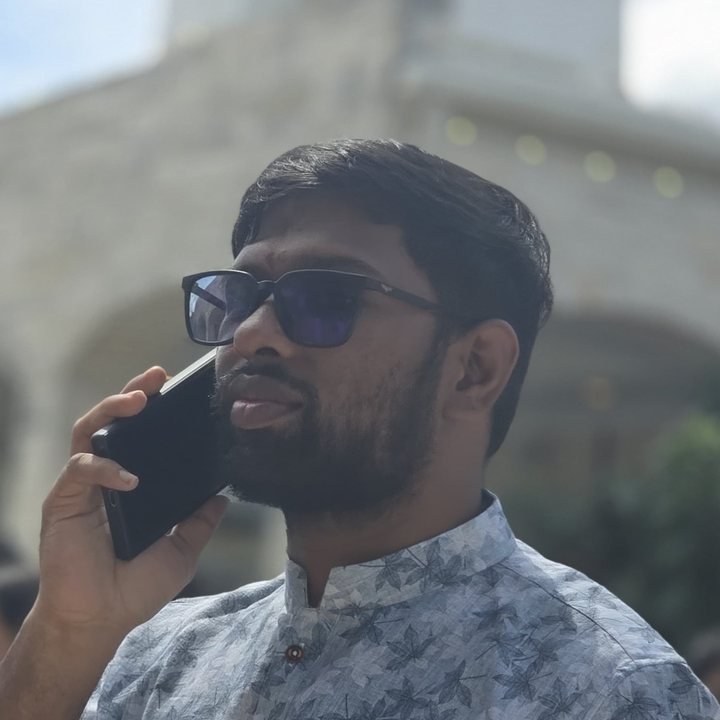
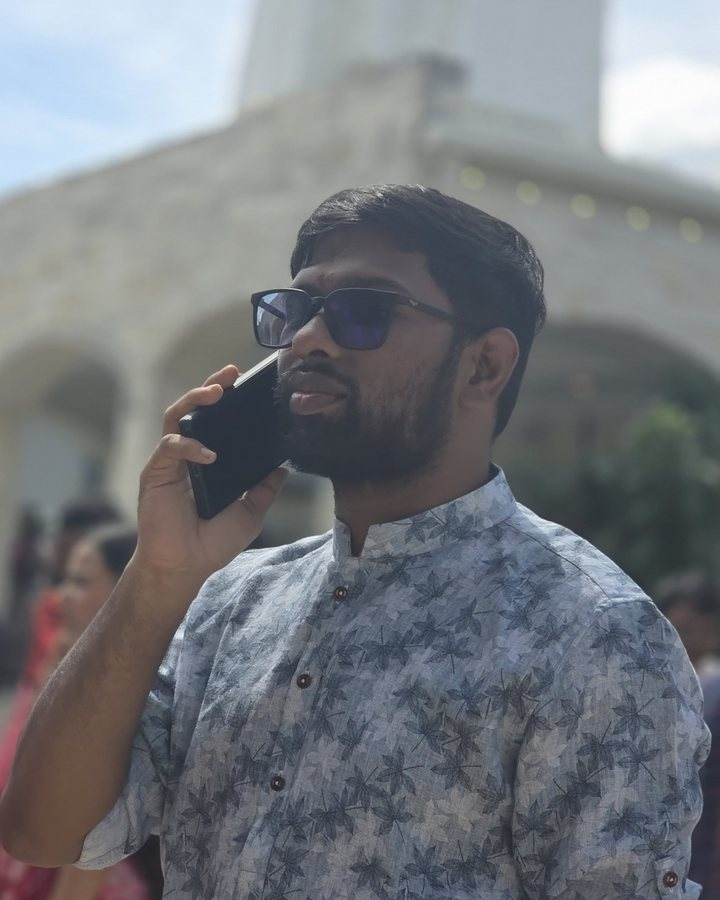
Show more of the portrait in a 4:5 frame
Claude-Session: https://claude.ai/code/session_01UydZ9j2jUNUFJcGSWKtVLU

diff --git a/assets/style.css b/assets/style.css
@@ -97,8 +97,8 @@ p { margin: 0; }
 .section-head p { color: var(--muted); max-width: 64ch; }
 
 /* ---------- hero ---------- */
-.hero { display: grid; grid-template-columns: 220px minmax(0, 1fr); gap: 40px; align-items: center; }
-.portrait { width: 220px; height: auto; aspect-ratio: 1; border-radius: 16px; object-fit: cover; background: var(--surface); box-shadow: 0 1px 0 var(--line), 0 12px 30px -18px var(--shadow); }
+.hero { display: grid; grid-template-columns: 240px minmax(0, 1fr); gap: 40px; align-items: center; }
+.portrait { width: 240px; height: auto; aspect-ratio: 4 / 5; border-radius: 16px; object-fit: cover; background: var(--surface); box-shadow: 0 1px 0 var(--line), 0 12px 30px -18px var(--shadow); }
 .hero-text { display: grid; gap: 14px; min-width: 0; }
 .role { font: 500 15px/1.4 var(--mono); color: var(--muted); margin: 0; }
 .status {
@@ -119,7 +119,7 @@ p { margin: 0; }
 .btn.primary:hover { background: var(--accent-hover); border-color: var(--accent-hover); }
 @media (max-width: 720px) {
   .hero { grid-template-columns: minmax(0, 1fr); gap: 22px; }
-  .portrait { width: 150px; }
+  .portrait { width: 180px; }
 }
 
 /* ---------- stats ---------- */

diff --git a/index.html b/index.html
@@ -32,7 +32,7 @@
   <div class="wrap">
 
 <section class="hero" aria-label="Introduction">
-  <img class="portrait" src="assets/preetam.jpg" alt="Portrait of Sai Preetam Jonnakuti" width="720" height="720">
+  <img class="portrait" src="assets/preetam.jpg" alt="Portrait of Sai Preetam Jonnakuti" width="720" height="900">
   <div class="hero-text">
     <p class="role">AI engineer · M.S. Artificial Intelligence, Texas A&amp;M</p>
     <h1>Hi, I'm Preetam.</h1>
